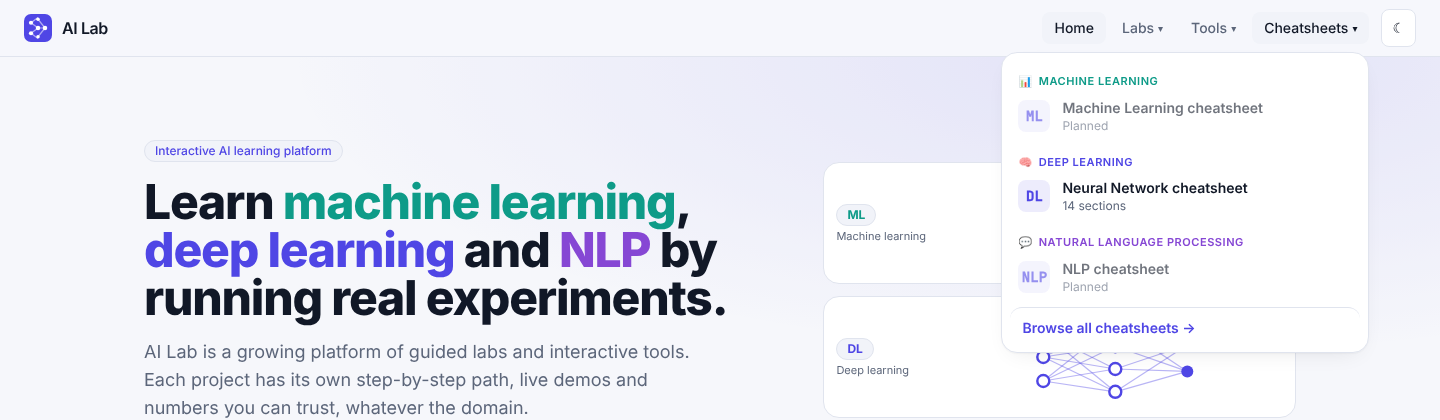
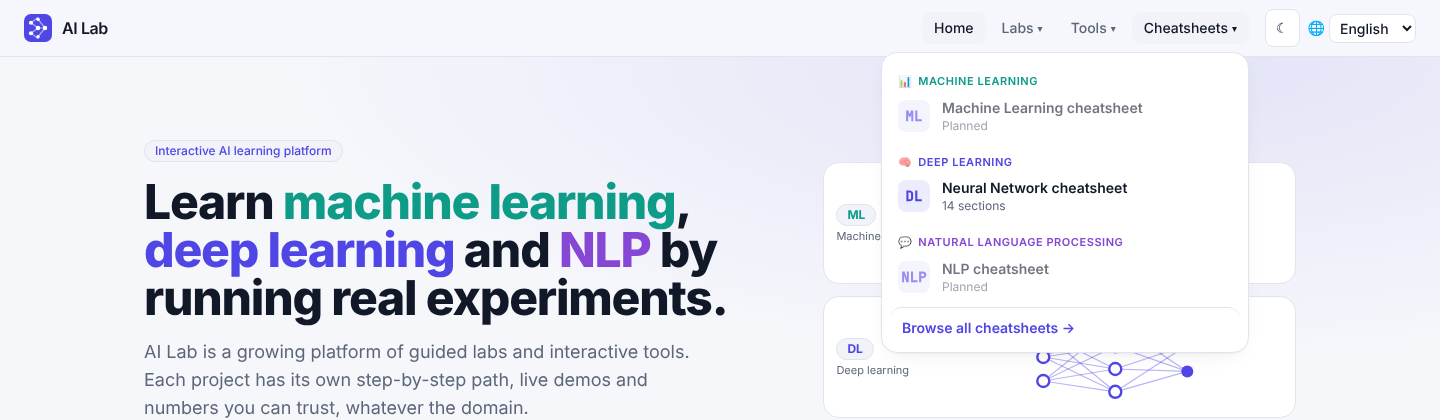
Fix header layout for the language switcher on phones; translate hero art; language checks in browser script
Claude-Session: https://claude.ai/code/session_01AJc8YznDApXfTg64NvUgzS

diff --git a/frontend/src/components/HeroArt.tsx b/frontend/src/components/HeroArt.tsx
@@ -1,7 +1,9 @@
 import { col } from "../labs/ui";
+import { useT } from "../i18n";
 
 /** Decorative, static illustration of the three domains. No data is implied. */
 export function HeroArt() {
+  const t = useT();
   const pts: [number, number, 0 | 1][] = [[20, 52, 0], [34, 40, 0], [26, 60, 0], [46, 48, 0], [58, 28, 1], [70, 36, 1], [64, 18, 1], [80, 24, 1], [50, 62, 0], [86, 40, 1]];
   const row = "flex items-center gap-4 rounded-2xl border border-line bg-surface p-3";
   const label = (cls: string, short: string, name: string) => (
@@ -11,16 +13,16 @@ export function HeroArt() {
     </div>
   );
   return (
-    <div className="space-y-3" role="img" aria-label="Illustration of the three domains: machine learning, deep learning and natural language processing">
+    <div className="space-y-3" role="img" aria-label={t("hero.alt")}>
       <div className={row}>
-        {label("text-c-teal", "ML", "Machine learning")}
+        {label("text-c-teal", "ML", t("hero.ml"))}
         <svg viewBox="0 0 100 80" className="h-24 flex-1">
           <line x1="12" y1="62" x2="92" y2="20" strokeWidth="2" strokeDasharray="4 3" style={{ stroke: col("c-teal") }} />
           {pts.map(([x, y, c], i) => <circle key={i} cx={x} cy={y} r="3.2" style={{ fill: c ? col("pos") : col("neg") }} />)}
         </svg>
       </div>
       <div className={row}>
-        {label("text-brand", "DL", "Deep learning")}
+        {label("text-brand", "DL", t("hero.dl"))}
         <svg viewBox="0 0 160 80" className="h-24 flex-1">
           {[0, 1, 2].map((i) => [0, 1, 2, 3].map((j) => <line key={`${i}${j}`} x1="20" y1={20 + i * 20} x2="80" y2={12 + j * 19} strokeOpacity=".4" style={{ stroke: col("brand") }} />))}
           {[0, 1, 2, 3].map((i) => [0, 1].map((j) => <line key={`b${i}${j}`} x1="80" y1={12 + i * 19} x2="140" y2={30 + j * 22} strokeOpacity=".4" style={{ stroke: col("brand") }} />))}
@@ -30,7 +32,7 @@ export function HeroArt() {
         </svg>
       </div>
       <div className={row}>
-        {label("text-c-purple", "NLP", "Natural language")}
+        {label("text-c-purple", "NLP", t("hero.nlp"))}
         <svg viewBox="0 0 160 80" className="h-24 flex-1">
           {["Learn", "from", "text"].map((w, i) => (
             <g key={w}>

diff --git a/frontend/src/components/NavBar.tsx b/frontend/src/components/NavBar.tsx
@@ -91,12 +91,12 @@ export function NavBar() {
   const m = useMeta();
   return (
     <header className="sticky top-0 z-30 border-b border-line bg-bg/85 backdrop-blur">
-      <div className="mx-auto flex h-14 max-w-[1500px] items-center justify-between px-4 sm:px-6">
-        <Link to="/" className="flex items-center gap-2.5 font-semibold tracking-tight">
+      <div className="mx-auto flex max-w-[1500px] flex-wrap items-center justify-between gap-x-2 px-4 py-1.5 sm:h-14 sm:flex-nowrap sm:py-0 sm:px-6">
+        <Link to="/" className="order-1 flex items-center gap-2.5 font-semibold tracking-tight">
           <Logo />
           <span className="hidden sm:inline">AI Lab</span>
         </Link>
-        <nav aria-label="Primary" className="flex items-center gap-0 sm:gap-1">
+        <nav aria-label="Primary" className="order-3 flex w-full items-center justify-center gap-0 sm:order-2 sm:ml-auto sm:w-auto sm:gap-1">
           <NavLink to="/" end className={(a) => `${linkCls(a)} hidden sm:block`}>{t("nav.home")}</NavLink>
 
           <NavMenu label={t("nav.labs")} id="labs-menu" prefix="/labs">
@@ -157,6 +157,8 @@ export function NavBar() {
             <Link to="/cheatsheets" className="mt-1 block rounded-xl border-t border-line px-3 pt-2.5 pb-1.5 text-sm font-semibold text-brand hover:underline">{t("nav.browseSheets")}</Link>
           </NavMenu>
 
+        </nav>
+        <div className="order-2 flex items-center sm:order-3">
           <button
             onClick={toggle}
             className="btn-ghost ml-1 !px-2 sm:ml-2 sm:!px-2.5"
@@ -166,7 +168,7 @@ export function NavBar() {
             <span aria-hidden>{dark ? "☀" : "☾"}</span>
           </button>
           <LanguageSwitcher />
-        </nav>
+        </div>
       </div>
     </header>
   );

diff --git a/frontend/src/i18n/messages/common.ts b/frontend/src/i18n/messages/common.ts
@@ -114,6 +114,11 @@ export const common = build([
   ["home.how.4.t", "Track your progress", "ನಿಮ್ಮ ಪ್ರಗತಿಯನ್ನು ಗಮನಿಸಿ", "Sekite savo pažangą"],
   ["home.how.4.d", "Mark steps complete; the platform remembers where you stopped.", "ಹಂತಗಳನ್ನು ಪೂರ್ಣ ಎಂದು ಗುರುತಿಸಿ; ನೀವು ಎಲ್ಲಿ ನಿಲ್ಲಿಸಿದ್ದೀರಿ ಎಂದು ವೇದಿಕೆ ನೆನಪಿಟ್ಟುಕೊಳ್ಳುತ್ತದೆ.", "Pažymėkite žingsnius kaip baigtus; platforma prisimena, kur sustojote."],
 
+  ["hero.ml", "Machine learning", "ಯಂತ್ರ ಕಲಿಕೆ", "Mašininis mokymasis"],
+  ["hero.dl", "Deep learning", "ಆಳ ಕಲಿಕೆ", "Gilusis mokymasis"],
+  ["hero.nlp", "Natural language", "ನೈಸರ್ಗಿಕ ಭಾಷೆ", "Natūrali kalba"],
+  ["hero.alt", "Illustration of the three domains: machine learning, deep learning and natural language processing", "ಮೂರು ವಿಭಾಗಗಳ ಚಿತ್ರ: ಯಂತ್ರ ಕಲಿಕೆ, ಆಳ ಕಲಿಕೆ ಮತ್ತು ನೈಸರ್ಗಿಕ ಭಾಷಾ ಸಂಸ್ಕರಣೆ", "Trijų sričių iliustracija: mašininis mokymasis, gilusis mokymasis ir natūralios kalbos apdorojimas"],
+
   // ---- labs index
   ["labs.eyebrow", "AI Lab · Labs", "AI Lab · ಲ್ಯಾಬ್ಗಳು", "AI Lab · Laboratorijos"],
   ["labs.title", "Guided labs", "ಮಾರ್ಗದರ್ಶಿತ ಲ್ಯಾಬ್ಗಳು", "Vedamos laboratorijos"],
